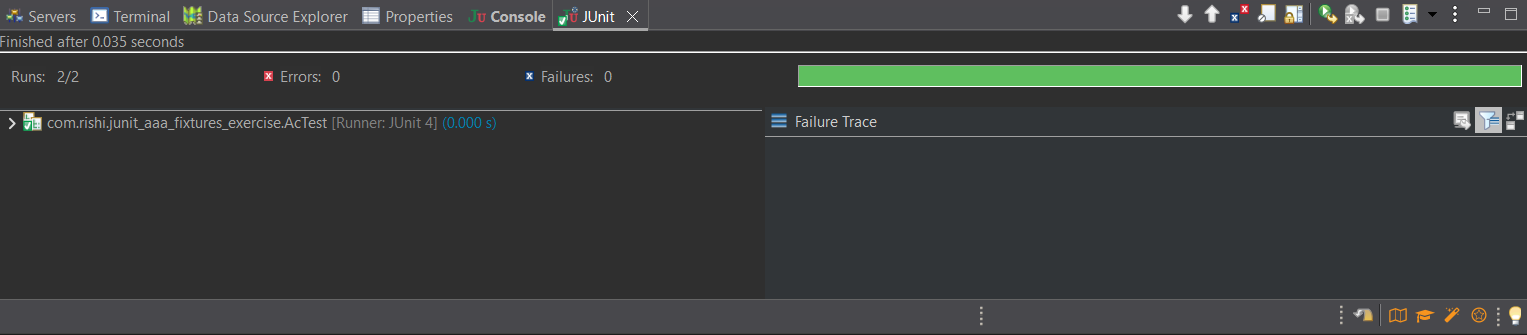
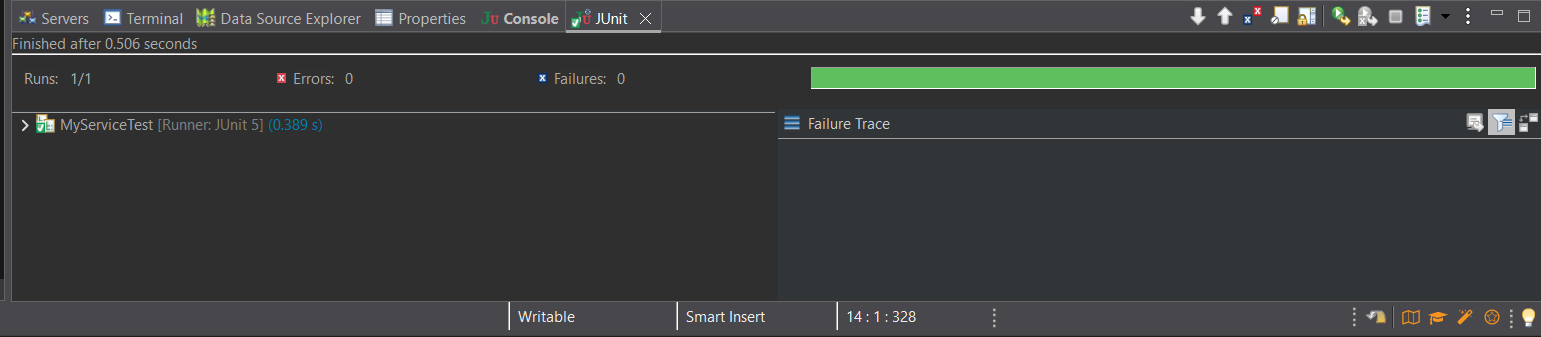
feat: add mockito stubbing exercise 01 with output verification

diff --git a/Week1_JUnit_Mockito_and_SLF4J/Mocking_Dependencies_Spring_Boot/01_Mocking_and_Stubbing/Code/src/test/java/com/rishi/mockito_stubbing_exercise/MyServiceTest.java b/Week1_JUnit_Mockito_and_SLF4J/Mocking_Dependencies_Spring_Boot/01_Mocking_and_Stubbing/Code/src/test/java/com/rishi/mockito_stubbing_exercise/MyServiceTest.java
@@ -1,0 +1,22 @@
+package com.rishi.mockito_stubbing_exercise;
+
+import static org.junit.jupiter.api.Assertions.assertEquals;
+import static org.mockito.Mockito.when;
+
+import org.junit.jupiter.api.Test;
+import org.mockito.Mockito;
+
+public class MyServiceTest {
+
+    @Test
+    public void testExternalApi() {
+        ExternalApi mockApi = Mockito.mock(ExternalApi.class);
+ 
+        when(mockApi.getData()).thenReturn("Mock Data");
+       
+        MyService service = new MyService(mockApi);
+        String result = service.fetchData();
+       
+        assertEquals("Mock Data", result, "The service should correctly fetch the stubbed mock data.");
+    }
+}

diff --git a/Week1_JUnit_Mockito_and_SLF4J/Mocking_Dependencies_Spring_Boot/01_Mocking_and_Stubbing/Code/src/main/java/com/rishi/mockito_stubbing_exercise/MyService.java b/Week1_JUnit_Mockito_and_SLF4J/Mocking_Dependencies_Spring_Boot/01_Mocking_and_Stubbing/Code/src/main/java/com/rishi/mockito_stubbing_exercise/MyService.java
@@ -1,0 +1,14 @@
+package com.rishi.mockito_stubbing_exercise;
+
+public class MyService {
+    private final ExternalApi externalApi;
+
+    // Constructor Injection
+    public MyService(ExternalApi externalApi) {
+        this.externalApi = externalApi;
+    }
+
+    public String fetchData() {
+        return externalApi.getData();
+    }
+}

diff --git a/Week1_JUnit_Mockito_and_SLF4J/Mocking_Dependencies_Spring_Boot/01_Mocking_and_Stubbing/Code/src/main/java/com/rishi/mockito_stubbing_exercise/ExternalApi.java b/Week1_JUnit_Mockito_and_SLF4J/Mocking_Dependencies_Spring_Boot/01_Mocking_and_Stubbing/Code/src/main/java/com/rishi/mockito_stubbing_exercise/ExternalApi.java
@@ -1,0 +1,5 @@
+package com.rishi.mockito_stubbing_exercise;
+
+public interface ExternalApi {
+    String getData();
+}